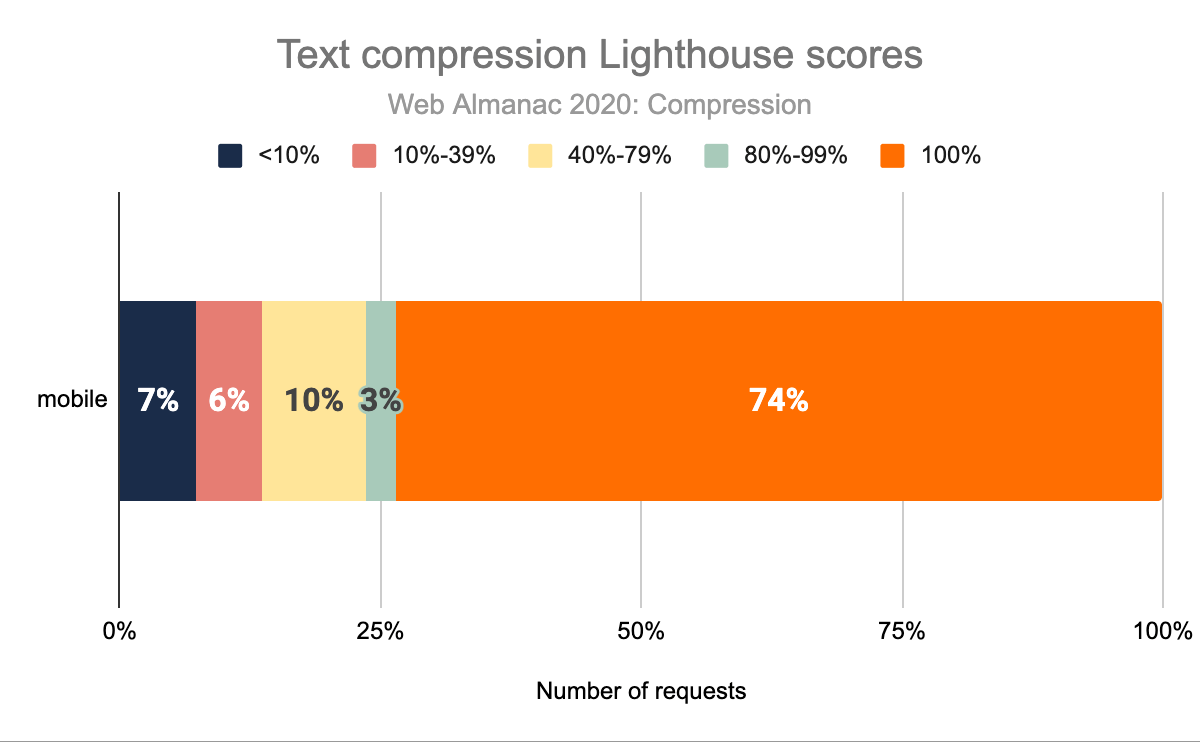
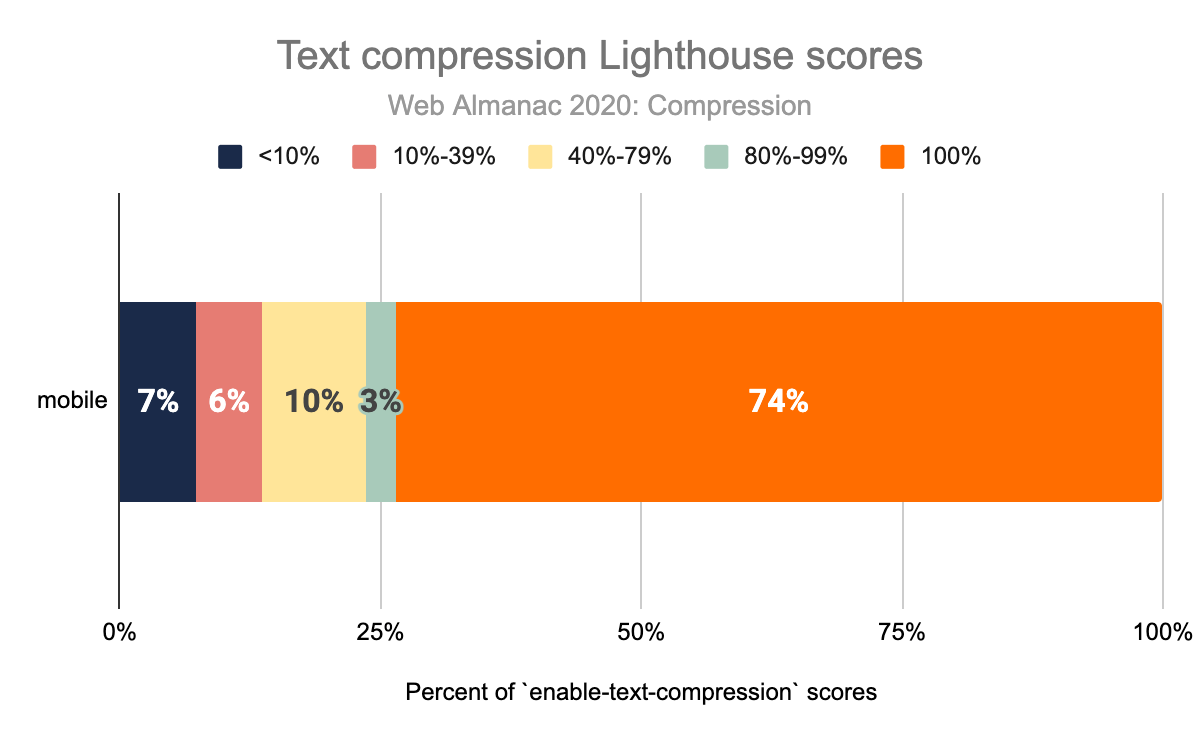
Compression 2020 edits (#1688)
* Initial spell check

* Edit first pass.

* Update compression.md

one more format for Jyrki's bio

* Address TODOs.

* Fixing links and paragraphs.

* Fix figure links data/query links.

* Fixing bios.

* gzip -> Gzip, brotli -> Brotli, zopfli -> Zopfli

* update fig image

* Optimised images with calibre/image-actions

diff --git a/src/content/en/2020/compression.md b/src/content/en/2020/compression.md
@@ -8,19 +8,18 @@ authors: [mo271, veluca93, sboukortt, jyrkialakuijala]
 reviewers: [paulcalvano]
 analysts: [AbbyTsai]
 translators: []
-jyrkialakuijala_bio: Jyrki Alakuijala is an active member of the open source software community, and a data compression researcher. Jyrki works at Google as a Technical Lead/Manager, and his recent published work has been with Zopfli, Butteraugli, Guetzli, Gipfeli, WebP lossless, and Brotli compression formats and algorithms, and two hashing algorithms, CityHash and HighwayHash. Before his Google employment he developed software for neurosurgery and radiation therapy treatment planning.
+jyrkialakuijala_bio: Jyrki Alakuijala is an active member of the open source software community, and a data compression researcher. Jyrki works at Google as a Technical Lead/Manager, and his recent published work has been with Zopfli, Butteraugli, Guetzli, Gipfeli, WebP lossless, Brotli, and JPEG XL compression formats and algorithms, and two hashing algorithms, CityHash, and HighwayHash. Before his Google employment he developed software for neurosurgery and radiation therapy treatment planning.
 sboukortt_bio: Sami joined Google after completing his studies in engineering mathematics. After a few years of remote interest in compression, he eventually made it his full-time subject of work in 2018.
-mo271_bio: Moritz Firsching is software engineer at Google Switzerland, where he works on progressive image formats and font compression.
-Before that Moritz did research as a mathematician studying polytopes.
+mo271_bio: Moritz Firsching is software engineer at Google Switzerland, where he works on progressive image formats and font compression. Before that Moritz did research as a mathematician studying polytopes.
 veluca93_bio: Luca Versari is a software engineer at Google, working on <a href="https://gitlab.com/wg1/jpeg-xl">JPEG XL</a>. He's finishing a PhD on graph compression and has a background in mathematics.
 discuss: 2055
 results: https://docs.google.com/spreadsheets/d/1NKbP4AqMkgCNCsVD3yLhO2d0aqIsgZ7AGLEtUDHl9yY/
 queries: 19_Compression
 featured_quote: Using HTTP compression makes a website load faster and therefore guarantees a better user experience.
 featured_stat_1: 23%
-featured_stat_label_1: Compressed requests which use brotli
+featured_stat_label_1: Compressed requests which use Brotli
 featured_stat_2: 77%
-featured_stat_label_2: Compressed requests which use gzip
+featured_stat_label_2: Compressed requests which use Gzip
 featured_stat_3: 74%
 featured_stat_label_3: Websites that pass the Lighthouse audit with maximum score on text compression
 unedited: true
@@ -28,56 +27,57 @@ unedited: true
 
 ## Introduction
 
-
-Using HTTP compression makes a website load faster and therefore guarantees a better user experience. Running no compression on HTTP makes for a worse user experience, may affect the growth rate of the related web service and affects search rankings. Using compression likely produces a web experience that performs better on metrics such as faster Largest Contentful Paint. Using compression reduces [page weight](./page-weight), improves [web performance](./performance), and therefore is an important part of [search engine optimization](./seo).
-
+Using HTTP compression makes a website load faster and therefore guarantees a better user experience. Running no compression on HTTP makes for a worse user experience, may affect the growth rate of the related web service, and affects search rankings.  Effective use of compression can reduce [page weight](./page-weight), improves [web performance](./performance), and therefore is an important part of [search engine optimization](./seo).
 
 While lossy compression is often acceptable for images and other [media](./media) types, for text we want to use lossless compression, i.e. recover the exact text after decompression.
 
 ## What type of content should we compress?
 
-For most text-based assets, such as [HTML](./markup), [CSS](./css), [JavaScript](./javascript), [JSON](https://www.json.org) or SVG, as well as certain non-text formats such as woff, ttf, ico, using compression is recommended.
-Here is an overview over what compression methods are currently used for different content types:
+For most text-based assets, such as [HTML](./markup), [CSS](./css), [JavaScript](./javascript), JSON, or SVG, as well as certain non-text formats such as woff, ttf, ico, using compression is recommended.
 
 {{ figure_markup(
   image="compession-methods-by-content-type.png",
   caption="Compression Methods for Different Content Types",
-  description="This breaks down what compression methods, if any, are used for all the content types which are not images.",
+  description="A stacked bar chart showing the usage rate of different compression algorithms broken down by the content type. The stacked bars divide up the use of Brotli, Gzip, and no compression. `text/html` is the only content type that is compressed less than 50% of the time. `application/json` and `image/svg+xml` are each approximately 64% compressed. `text/css` and `application/javascript` are each approximately 85% compressed. `application/x-javascript` and `text/javascript` are greater than 90% compressed.",
   chart_url="https://docs.google.com/spreadsheets/d/e/2PACX-1vTxUj8-0vKTqPAblIXqekSbiRh1D1lEuA3gVD9w23qwGPtJRE8FbgrURfPAgfFZX2l0t84Wy5ZAGqzR/pubchart?oid=1658254159&format=interactive",
   sheets_gid="107138856",
   sql_file="19_01.type_of_content_encoding.sql"
   )
 }}
-The figure shows the percentages of the request of a certain content type using either brotli, gzip or no text compression.
-It is surprising that while all those content types would profit from compression, the range of percentages varies widely over the different content types:  only 44% use compression for `text/html` against  93% `application/x-javascript`.
 
+The figure shows the percent of requests of a certain content type using either Brotli, Gzip or no text compression.
+It is surprising that while all those content types would profit from compression, the range of percentages varies widely over the different content types:  only 44% use compression for `text/html` against 93% for `application/x-javascript`.
+
+For image-based assets text-based compression is less useful and not widely employed. The data shows that the percent of image requests that employ either Brotli, or Gzip is very low, less than 4%. For more info on non text-based assets, check out the [Media](./media) chapter.
+
+{{ figure_markup(
+  image="http-compression-methods-for-image-types.png",
+  description="This breaks down what compression methods, if any, are used for all the content types which are images. For all three image types, i.e. jpeg, png and gif, around 96.5% use no compression is used.",
+  caption="Compression by content type as a percent for desktop.",
+  chart_url="https://docs.google.com/spreadsheets/d/e/2PACX-1vTxUj8-0vKTqPAblIXqekSbiRh1D1lEuA3gVD9w23qwGPtJRE8FbgrURfPAgfFZX2l0t84Wy5ZAGqzR/pubchart?oid=1287110333&format=interactive",
+  sheets_gid="449339162",
+  sql_file="19_01.type_of_content_encoding.sql"
+  )
+}}
 
 ## How to use HTTP compression?
 
-To reduce the file sizes of the files that we plan to serve you could first use a some minimizers, e.g. [HTMLMinifier](https://github.com/kangax/html-minifier), [CSSNano](https://github.com/ben-eb/cssnano)
- or [UglifyJS](https://github.com/mishoo/UglifyJS2). However bigger gains are expected from using compression.
+To reduce the size of the files that we plan to serve one could first use some minimizers, e.g. [HTMLMinifier](https://github.com/kangax/html-minifier), [CSSNano](https://github.com/ben-eb/cssnano), or [UglifyJS](https://github.com/mishoo/UglifyJS2). However bigger gains are expected from using compression.
 
 There are two ways of doing the compression on the server side:
 
   - Precompressed (compress and save assets ahead of time)
   - Dynamically Compressed (compress assets on-the-fly after a request is made)
 
-Since precompression is done beforehand, we can spend more time compressing the assets. For dynamically compressed resources we need to choose the compression levels such that compression takes less time than time difference between sending an uncompressed versus a compressed file. Currently practically all text compression is done by one of two HTTP content encodings: [Gzip](https://tools.ietf.org/html/rfc1952) and [brotli](https://github.com/google/brotli). Both are widely supported by browsers: [can I use brotli](https://caniuse.com/?search=brotli)/[can I use gzip](https://caniuse.com/?search=gzip)
-When you want to use gzip, consider using [Zopfli](https://en.wikipedia.org/wiki/Zopfli), which generates smaller gzip compatible files. This should be done especially for precompressed resources, since here the greatest [gains are expected](https://cran.r-project.org/web/packages/brotli/vignettes/brotli-2015-09-22.pdf) . See this [comparison between Gzip and Zopfli](https://blog.codinghorror.com/zopfli-optimization-literally-free-bandwidth/) that takes into account different compression levels for gzip.
-
-
-Many [popular servers support dynamically and/or pre-compressed HTTP](https://en.wikipedia.org/wiki/HTTP_compression#Servers_that_support_HTTP_compression) and many of them support [Brotli](https://en.wikipedia.org/wiki/Brotli)
-
-
-Here are some general recommendations on what compression levels to use:
+Since precompression is done beforehand, we can spend more time compressing the assets. For dynamically compressed resources, we need to choose the compression levels such that compression takes less time than the time difference between sending an uncompressed versus a compressed file. This difference is borne out when looking at compression level recommendations for both methods.
 
 <figure>
   <table>
     <thead>
       <tr>
         <td></td>
-        <th scope="col">brotli</th>
-        <th scope="col">gzip</th>
+        <th scope="col">Brotli</th>
+        <th scope="col">Gzip</th>
       </tr>
     </thead>
     <tbody>
@@ -96,9 +96,15 @@ Here are some general recommendations on what compression levels to use:
   <figcaption>{{ figure_link(caption="Recommended compression levels to use.") }}</figcaption>
 </figure>
 
-Currently, when compression is used, the split between brotli and gzip is about 23% / 77%.
+Currently, practically all text compression is done by one of two HTTP content encodings: [Gzip](https://tools.ietf.org/html/rfc1952) and [Brotli](https://github.com/google/brotli). Both are widely supported by browsers: [can I use Brotli](https://caniuse.com/?search=brotli)/[can I use Gzip](https://caniuse.com/?search=gzip)
 
-Approximately 60% of HTTP responses are delivered with text-based compression. This may seem like a surprising statistic, but keep in mind that it is based on all HTTP requests in the dataset. Some content, such as images, will not benefit from these compression algorithms. The table below summarizes the percentage of requests served with each content encoding.
+When you want to use Gzip, consider using [Zopfli](https://en.wikipedia.org/wiki/Zopfli), which generates smaller Gzip compatible files. This should be done especially for precompressed resources, since here the greatest [gains are expected](https://cran.r-project.org/web/packages/brotli/vignettes/brotli-2015-09-22.pdf). See this [comparison between Gzip and Zopfli](https://blog.codinghorror.com/zopfli-optimization-literally-free-bandwidth/) that takes into account different compression levels for Gzip.
+
+Many [popular servers](https://en.wikipedia.org/wiki/HTTP_compression#Servers_that_support_HTTP_compression) support dynamically and/or pre-compressed HTTP and many of them support [Brotli](https://en.wikipedia.org/wiki/Brotli).
+
+## Current state of HTTP compression
+
+Approximately 60% of HTTP responses are delivered with no text-based compression. This may seem like a surprising statistic, but keep in mind that it is based on all HTTP requests in the dataset. Some content, such as images, will not benefit from these compression algorithms and is therefore not often used, as shown in figure 19.2.
 
 <figure>
   <table>
@@ -118,7 +124,7 @@ Approximately 60% of HTTP responses are delivered with text-based compression. T
         <td class="numeric">59.67%</td>
       </tr>
       <tr>
-        <td>gzip</td>
+        <td>Gzip</td>
         <td class="numeric">30.82%</td>
         <td class="numeric">31.56%</td>
         <td class="numeric">31.21%</td>
@@ -138,29 +144,26 @@ Approximately 60% of HTTP responses are delivered with text-based compression. T
       </tr>
     </tbody>
   </table>
-  <figcaption>{{ figure_link(caption="Adoption of compression algorithms.") }}</figcaption>
+  <figcaption>{{ figure_link(caption="Adoption of compression algorithms.", sheets_gid="1365871671", sql_file="19_01.type_of_content_encoding.sql") }}</figcaption>
 </figure>
 
-Of the resources that are served compressed, the majority are using either gzip (77%) or brotli (23%). The other compression algorithms are used infrequently.
+Of the resources that are served compressed, the majority are using either Gzip (77%) or Brotli (23%). The other compression algorithms are used infrequently.
 
 {{ figure_markup(
   image="compression-algorithms-for-http-requests.png",
-  caption="Compression algorithms .",
-  description="Bar chart showing around 77% requests use gzip, the remaining 23% use brotli.",
+  caption="Compression algorithm usage rates.",
+  description="A bar chart showing the usage rates of different compression algorithms for HTTP requests. 77.39% of HTTP requests that use compression employ the Gzip algorithm, 22.59% use Brotli, and 0.03% use some other method.",
   chart_url="https://docs.google.com/spreadsheets/d/e/2PACX-1vTxUj8-0vKTqPAblIXqekSbiRh1D1lEuA3gVD9w23qwGPtJRE8FbgrURfPAgfFZX2l0t84Wy5ZAGqzR/pubchart?oid=1523202090&format=interactive",
   sheets_gid="1365871671",
   sql_file="19_01.type_of_content_encoding.sql"
   )
 }}
 
-
-## Current state of HTTP compression
-
-In the graph below, the top 11 content types are displayed with box sizes representing the relative number of requests. The color of each box represents how many of these resources were served compressed. Most of the media content is shaded orange, which is expected since gzip and brotli would have little to no benefit for them.  Most of the text content is shaded blue to indicate that they are being compressed. However, the light blue shading for some content types indicate that they are not compressed as consistently as the others.
+In the graph below, the top 11 content types are displayed with box sizes representing the relative number of requests. The color of each box represents how many of these resources were served compressed, orange indicates a low percentage of compression while blue indicates a high percentage of compression. Most of the media content is shaded orange, which is expected since Gzip and Brotli would have little to no benefit for them.  Most of the text content is shaded blue to indicate that they are being compressed. However, the light blue shading for some content types indicate that they are not compressed as consistently as the others.
 
 {{ figure_markup(
   image="compression-algorithms-by-content-type-desktop.png",
-  caption="Top compressed content types.",
+  caption="Top compressed content types on desktop.",
   description="Treemap chart showing image/jpeg (91,926,198 requests - 3.27% compressed), application/javascript (80,360,676 requests - 84.88% compressed), image/png (66,351,767 requests - 3.7% compressed), text/css (54,104,482 requests - 84.0% compressed), text/html (48,670,006 requests - 44.25% compressed), image/gif (39,390,408 requests - 3.42% compressed), text/javascript (35,491,375 requests - 90.74% compressed), application/x-javascript (22,714,896 requests - 93.14% compressed), application/json (13,453,942 requests - 63.02% compressed), text/plain (4,629,644 requests - 32.89% compressed).",
   chart_url="https://docs.google.com/spreadsheets/d/e/2PACX-1vTxUj8-0vKTqPAblIXqekSbiRh1D1lEuA3gVD9w23qwGPtJRE8FbgrURfPAgfFZX2l0t84Wy5ZAGqzR/pubchart?oid=777357707&format=interactive",
   sheets_gid="449339162",
@@ -168,27 +171,11 @@ In the graph below, the top 11 content types are displayed with box sizes repres
   )
 }}
 
-
-Figure 19.1 above breaks down the percentages indicated as shadings in Figure 19.4 for the data types that should use compression.
-They are almost identical for desktop and mobile.
-Here's the analogous figure for those data types that ordinarily don't profit from further compression:
-
-
-{{ figure_markup(
-  image="http-compression-methods-for-image-types.png",
-  description="This breaks down what compression methods, if any, are used for all the content types which are images. For all three image types, i.e. jpeg, png and gif, around 96.5% use no compression is used.",
-  caption="Compression by content type as a percent for desktop.",
-  chart_url="https://docs.google.com/spreadsheets/d/e/2PACX-1vTxUj8-0vKTqPAblIXqekSbiRh1D1lEuA3gVD9w23qwGPtJRE8FbgrURfPAgfFZX2l0t84Wy5ZAGqzR/pubchart?oid=1287110333&format=interactive",
-  sheets_gid="449339162",
-  sql_file="19_01.type_of_content_encoding.sql"
-  )
-}}
+Figure 19.1 above breaks down the percentage of compression used per content type, in figure 19.6 this percentage is indicated as color. The two figures tell similar stories, non-text based assets are rarely compressed, while text-based assets are often compressed. The rates of compression are also similar for both mobile and desktop.
 
 ## First-party vs third-party compression
 
-In the [Third Parties](./third-parties) chapter, we learn about third parties and their impact on performance. When we compare compression techniques between first and third parties, we can see that third-party content tends to be compressed more than first-party content.
-
-Additionally, the percentage of brotli compression is higher for third-party content. This is likely due to the number of resources served from the larger third parties that typically support brotli, such as Google and Facebook.
+In the [Third Parties](./third-parties) chapter, we learn about third parties and their impact on performance. This is also true for third-party request compression.
 
 <figure>
   <table>
@@ -215,7 +202,7 @@ Additionally, the percentage of brotli compression is higher for third-party con
         <td class="numeric">58.11%</td>
       </tr>
       <tr>
-        <td>gzip</td>
+        <td>Gzip</td>
         <td class="numeric">30.95%</td>
         <td class="numeric">30.66%</td>
         <td class="numeric">32.36%</td>
@@ -244,16 +231,17 @@ Additionally, the percentage of brotli compression is higher for third-party con
       </tr>
     </tbody>
   </table>
-  <figcaption>{{ figure_link(caption="First-party versus third-party compression by device type.", sheets_gid="862864630", sql_file="19_03.party_of_content_encoding.sql.sql") }}</figcaption>
+  <figcaption>{{ figure_link(caption="First-party versus third-party compression by device type.", sheets_gid="862864630", sql_file="19_03.party_of_content_encoding.sql") }}</figcaption>
 </figure>
 
-Comparing with [last year's results](https://almanac.httparchive.org/en/2019/compression#first-party-vs-third-party-compression), we can see that there was a significant increase in the use of compression, notably brotli for first parties, almost to the point that the use of compression is around 40% for both first and third party and for desktop and mobile. However within the requests that do use compression, for first party the ratio of brotli compression is only 18%, while the ratio for third party is 27%.
+When we compare compression techniques between first and third parties, we can see that third-party content tends to be compressed more than first-party content. Additionally, the percentage of Brotli compression is higher for third-party content. This is likely due to the number of resources served from the larger third parties that typically support Brotli, such as Google and Facebook.
+
+Compared with [last year's results](../2019/compression#first-party-vs-third-party-compression), we can see that there was a significant increase in the use of compression, notably Brotli for first parties, almost to the point that the use of compression is around 40% for both first and third party, and for desktop and mobile. However within the requests that do use compression, for first parties, the ratio of Brotli compression is only 18%, while the ratio for third parties is 27%.
 
 
-## How to Analyze compression on your sites
+## How to analyze compression on your sites
 
-You can you [Firefox Developer Tools](https://developer.mozilla.org/en-US/docs/Tools) or [Chrome DevTools](https://developers.google.com/web/tools/chrome-devtools) to quickly figure out for what content a website already uses some kind of compression.
-For this go to Network tab, right click and activate "Content Encoding" under Response Headers. Hovering over the size of individual files you will see "transferred over network" and "resource size". Aggregated for the entire site one can see size/transferred size for Firefox and  "transferred" and "resources" for Chrome on the bottom left hand side of the Network tab.
+You can use [Firefox Developer Tools](https://developer.mozilla.org/en-US/docs/Tools) or [Chrome DevTools](https://developers.google.com/web/tools/chrome-devtools) to quickly figure out what content a website already compresses. To do this, go to the Network tab, right click and activate "Content Encoding" under Response Headers. Hovering over the size of individual files you will see "transferred over network" and "resource size". Aggregated for the entire site one can see size/transferred size for Firefox and  "transferred" and "resources" for Chrome on the bottom left hand side of the Network tab.
 
 {{ figure_markup(
   image="content-encoding.png",
@@ -265,15 +253,16 @@ For this go to Network tab, right click and activate "Content Encoding" under Re
   )
 }}
 
-Another tool to better understand compression on your site is Google's [Lighthouse](https://developers.google.com/web/tools/lighthouse) tool enables users to run a series of audits against web pages. The [text compression audit](https://developers.google.com/web/tools/lighthouse/audits/text-compression) evaluates whether a site can benefit from additional text-based compression. It does this by attempting to compress resources and evaluate whether an object's size can be reduced by at least 10% and 1,400 bytes. Depending on the score, you may see a compression recommendation in the results, with a list of specific resources that could be compressed.
+Another tool to better understand compression on your site is Google's [Lighthouse](https://developers.google.com/web/tools/lighthouse) tool, which enables you to run a series of audits against web pages. The [text compression audit](https://web.dev/uses-text-compression/) evaluates whether a site can benefit from additional text-based compression. It does this by attempting to compress resources and evaluate whether an object's size can be reduced by at least 10% and 1,400 bytes. Depending on the score, you may see a compression recommendation in the results, with a list of specific resources that could be compressed.
 
 
-Because the [HTTP Archive runs Lighthouse audits](./methodology#lighthouse) for each mobile page, we can aggregate the scores across all sites to learn how much opportunity there is to compress more content. Overall, 74% of websites are passing this audit and almost 13% of websites have scored below a 40. Compared to [last year's](https://almanac.httparchive.org/en/2019/compression#identifying-compression-opportunities) 62.5%, this year already 74% of the observed pages have the best text compression Lighthouse audio score.
+Because the [HTTP Archive runs Lighthouse audits](./methodology#lighthouse) for each mobile page, we can aggregate the scores across all sites to learn how much opportunity there is to compress more content. Overall, 74% of websites are passing this audit, while almost 13% of websites have scored below a 40. This is a 11.5% improvement when compared to [last year's](../2019/compression#identifying-compression-opportunities) 62.5% of passing scores.
 
+{# TODO(authors): Should this x-axis be labeled "Number of Requests"? Should it be more like "Percent of `enable-text-compression` scores"? #}
 {{ figure_markup(
   image="text-compression-lighthouse-scores.png",
   caption="Lighthouse \"enable text compression\" audit scores.",
-  description="Stacked bar chart showing 7% are costing less than 10%, 6% of sites are scoring between 10-39%, 10% of sites scoring between 40-79%, 3% of sites scoring between 80-99%, and 74% of sites have a pass with over 100% of text assets being compressed.",
+  description="Stacked bar chart breaking down the scores pages receive for the \"enable text compression\" Lighthouse audit. It shows that 7% of sites score less than 10%, 6% of sites are scoring between 10-39%, 10% of sites scoring between 40-79%, 3% of sites scoring between 80-99%, and 74% of sites have a pass with over 100% of text assets being compressed.",
   chart_url="https://docs.google.com/spreadsheets/d/e/2PACX-1vTxUj8-0vKTqPAblIXqekSbiRh1D1lEuA3gVD9w23qwGPtJRE8FbgrURfPAgfFZX2l0t84Wy5ZAGqzR/pubchart?oid=1438276663&format=interactive",
   sheets_gid="1284073179",
   sql_file="19_04.distribution_of_text_compression_lighthouse.sql"
@@ -282,6 +271,6 @@ Because the [HTTP Archive runs Lighthouse audits](./methodology#lighthouse) for 
 
 ## Conclusion
 
-Compared with [last year's almanac](../2019/compression), there is a clear trend towards using more text compression. The number of requests that don't use any text compression went down a little more than 2%, while at the same time the use of brotli has increased by almost 2%. The Lighthouse scores have improved significantly.
+Compared with [last year's Almanac](../2019/compression), there is a clear trend towards using more text compression. The number of requests that don't use any text compression went down a little more than 2%, while at the same time the use of Brotli has increased by almost 2%. The Lighthouse scores have improved significantly.
 
-Text compression is widely used for the relevant formats, although there is still a significant percentage of the http-requests that could benefit from additional compression. You can profit from taking a close look at the configuration of your server and set compression methods and levels to your need. A great impact for a more positive user experience could be made by carefully choosing defaults for the most popular http servers.
+Text compression is widely used for the relevant formats, although there is still a significant percentage of HTTP requests that could benefit from additional compression. You can profit from taking a close look at the configuration of your server and set compression methods and levels to your need. A great impact for a more positive user experience could be made by carefully choosing defaults for the most popular http servers.
